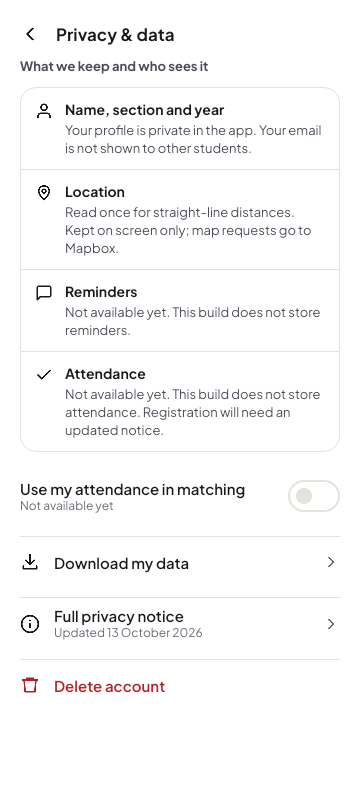
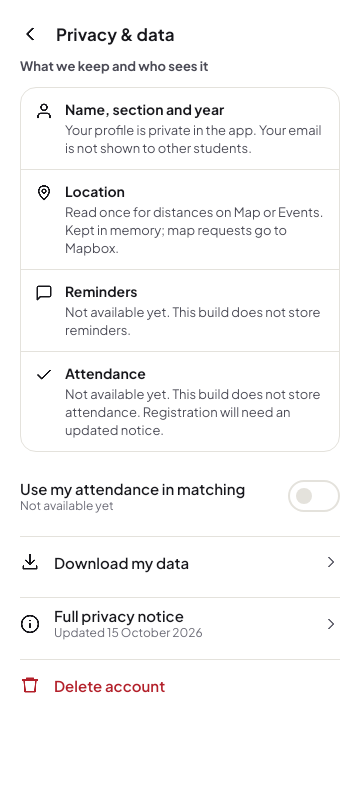
fix(privacy): reconcile current app behavior
Describe the Events distance filter and verification deadlines from main. Verify configured email drafts, missing-client retry and navigation alongside the existing app actions.

Refs #103

Changed region(s): [[0.3667, 0.25, 0.8861, 0.3125], [0.275, 0.2812, 0.3361, 0.3125]]

diff --git a/app/src/test/java/com/polysocial/ui/profile/PrivacyContactRouteTest.kt b/app/src/test/java/com/polysocial/ui/profile/PrivacyContactRouteTest.kt
@@ -1,0 +1,97 @@
+// Contributors: OpenAI Codex (configured privacy contact through the default Android wiring, #103).
+package com.polysocial.ui.profile
+
+import android.content.ActivityNotFoundException
+import android.content.Context
+import android.content.ContextWrapper
+import android.content.Intent
+import android.content.res.Resources
+import androidx.compose.runtime.CompositionLocalProvider
+import androidx.compose.ui.platform.LocalContext
+import androidx.compose.ui.platform.LocalResources
+import androidx.compose.ui.test.assertIsDisplayed
+import androidx.compose.ui.test.junit4.v2.createComposeRule
+import androidx.compose.ui.test.onNodeWithTag
+import androidx.compose.ui.test.onNodeWithText
+import androidx.compose.ui.test.performClick
+import androidx.compose.ui.test.performScrollTo
+import androidx.test.core.app.ApplicationProvider
+import androidx.test.ext.junit.runners.AndroidJUnit4
+import com.polysocial.R
+import com.polysocial.resources.C
+import com.polysocial.ui.theme.PolySocialTheme
+import io.mockk.every
+import io.mockk.spyk
+import org.junit.Assert.assertEquals
+import org.junit.Assert.assertNull
+import org.junit.Assert.assertTrue
+import org.junit.Rule
+import org.junit.Test
+import org.junit.runner.RunWith
+
+/**
+ * Exercises resource configuration, the route factory and Android launcher without opening an app.
+ */
+@RunWith(AndroidJUnit4::class)
+class PrivacyContactRouteTest {
+  @get:Rule val rule = createComposeRule()
+
+  private class EmailContext :
+      ContextWrapper(ApplicationProvider.getApplicationContext<Context>()) {
+    var missingClient = false
+    val drafts = mutableListOf<Intent>()
+
+    override fun getApplicationContext(): Context = this
+
+    override fun startActivity(intent: Intent) {
+      if (missingClient) throw ActivityNotFoundException()
+      drafts += Intent(intent)
+    }
+  }
+
+  private fun showConfiguredNotice(context: EmailContext) {
+    val resources: Resources = spyk(context.resources)
+    every { resources.getString(R.string.privacy_contact_email) } returns "team@example.invalid"
+    rule.setContent {
+      CompositionLocalProvider(LocalContext provides context, LocalResources provides resources) {
+        PolySocialTheme { FullPrivacyNoticeRoute(onBack = {}) }
+      }
+    }
+  }
+
+  @Test
+  fun configuredResourceOpensTheAndroidDraftWithoutAccountDetails() {
+    val context = EmailContext()
+    showConfiguredNotice(context)
+
+    rule.onNodeWithTag(C.Tag.privacy_contact).performScrollTo().performClick()
+
+    val draft = context.drafts.single()
+    assertEquals(Intent.ACTION_SENDTO, draft.action)
+    assertEquals("mailto", draft.data?.scheme)
+    assertEquals("team@example.invalid", draft.data?.schemeSpecificPart)
+    assertEquals(
+        context.getString(R.string.privacy_contact_subject),
+        draft.getStringExtra(Intent.EXTRA_SUBJECT),
+    )
+    assertNull(draft.getStringExtra(Intent.EXTRA_TEXT))
+    rule.onNodeWithTag(C.Tag.privacy_notice_screen).assertIsDisplayed()
+  }
+
+  @Test
+  fun missingAndroidClientKeepsTheNoticeAndAllowsRetry() {
+    val context = EmailContext().apply { missingClient = true }
+    showConfiguredNotice(context)
+    rule.onNodeWithTag(C.Tag.privacy_contact).performScrollTo().performClick()
+    rule.onNodeWithText(context.getString(R.string.privacy_contact_no_app)).assertIsDisplayed()
+    assertTrue(context.drafts.isEmpty())
+
+    rule.onNodeWithText(context.getString(R.string.privacy_dismiss)).performClick()
+    context.missingClient = false
+    rule.onNodeWithTag(C.Tag.privacy_contact).performClick()
+
+    assertEquals(1, context.drafts.size)
+    rule.onNodeWithText(context.getString(R.string.privacy_contact_no_app)).assertDoesNotExist()
+    rule.onNodeWithTag(C.Tag.privacy_notice_screen).assertIsDisplayed()
+  }
+}

diff --git a/app/src/test/java/com/polysocial/ui/profile/PrivacyScreenTest.kt b/app/src/test/java/com/polysocial/ui/profile/PrivacyScreenTest.kt
@@ -26,6 +26,8 @@ import androidx.compose.ui.test.performClick
 import androidx.compose.ui.test.performScrollTo
 import androidx.compose.ui.unit.Density
 import androidx.compose.ui.unit.dp
+import androidx.navigation.NavHostController
+import androidx.navigation.compose.rememberNavController
 import androidx.test.core.app.ApplicationProvider
 import androidx.test.ext.junit.runners.AndroidJUnit4
 import com.polysocial.R
@@ -33,6 +35,7 @@ import com.polysocial.model.privacy.PrivacyContactLauncher
 import com.polysocial.resources.C
 import com.polysocial.ui.navigation.AppShell
 import com.polysocial.ui.navigation.Tab
+import com.polysocial.ui.navigation.TabAction
 import com.polysocial.ui.theme.PolySocialTheme
 import java.io.File
 import org.junit.Rule
@@ -45,15 +48,21 @@ import org.robolectric.annotation.GraphicsMode
 class PrivacyScreenTest {
   @get:Rule val rule = createComposeRule()
   private val context = ApplicationProvider.getApplicationContext<Context>()
+  private lateinit var navController: NavHostController
 
   private fun text(id: Int) = context.getString(id)
 
   private fun openFromProfile() {
     rule.setContent {
       PolySocialTheme {
+        navController = rememberNavController()
         AppShell(
+            navController = navController,
             eventsContent = { Text("Events", Modifier.testTag(Tab.EVENTS.screenTag)) },
-            mapContent = { Text("Map", Modifier.testTag(Tab.MAP.screenTag)) },
+            mapContent = { _, _ -> Text("Map", Modifier.testTag(Tab.MAP.screenTag)) },
+            createEventContent = {
+              Text("Create event", Modifier.testTag(C.Tag.create_event_screen))
+            },
         )
       }
     }
@@ -70,6 +79,24 @@ class PrivacyScreenTest {
     rule.onNodeWithTag(C.Tag.privacy_back).performClick()
     rule.onNodeWithTag(C.Tag.profile_privacy_entry).assertIsDisplayed()
     rule.onNodeWithTag(C.Tag.nav_item_profile).assertIsSelected()
+  }
+
+  @Test
+  fun leavingPrivacyKeepsProfileActionsAndCreateEventNavigationWorking() {
+    openFromProfile()
+    rule.onNodeWithTag(TabAction.EDIT_PROFILE.tag).assertDoesNotExist()
+    rule.onNodeWithTag(C.Tag.privacy_back).performClick()
+    rule.onNodeWithTag(TabAction.EDIT_PROFILE.tag).performClick()
+    rule.onNodeWithTag(TabAction.EDIT_PROFILE.screenTag).assertIsDisplayed()
+    rule.runOnIdle { navController.popBackStack() }
+    rule.onNodeWithTag(C.Tag.profile_privacy_entry).assertIsDisplayed()
+    rule.onNodeWithTag(Tab.EVENTS.navItemTag).performClick()
+    rule.onNodeWithTag(C.Tag.create_event_button).performClick()
+    rule.onNodeWithTag(C.Tag.create_event_screen).assertIsDisplayed()
+    rule.onNodeWithTag(C.Tag.bottom_nav).assertDoesNotExist()
+    rule.runOnIdle { navController.popBackStack() }
+    rule.onNodeWithTag(TabAction.NOTIFICATIONS.tag).assertIsDisplayed()
+    rule.onNodeWithTag(C.Tag.create_event_button).assertIsDisplayed()
   }
 
   @Test

diff --git a/CONTEXT.md b/CONTEXT.md
@@ -172,6 +172,7 @@ Newest first, one line each, with a link. Remove a line once its content lives i
 - 2026-10-15 · Sign-in is email/password and Google only: Microsoft would need EPFL's admin to whitelist the app, and Google, through EPFL's SSO, proves the address just as well. ([#197 review](https://github.com/swent-polysocial/PolySocial/pull/197#pullrequestreview-5539093813))
 - 2026-10-15 · Event writes keep every organizer in `allowedUids`, on create and update, so a co-organizer can always read the private event they manage. ([#102](https://github.com/swent-polysocial/PolySocial/pull/102))
 - 2026-10-15 · CI installs the APKs and waits for the emulator's broadcasts before the device tests, and retries the system image download, after both made runs fail at random. ([#192](https://github.com/swent-polysocial/PolySocial/issues/192))
+- 2026-10-15 · Privacy text covers the Events distance-filter fix and verification resend timestamps now on main; privacy routes preserve the existing app-bar actions and Create Event navigation. ([#173](https://github.com/swent-polysocial/PolySocial/pull/173))
 - 2026-10-14 · CI runs checks, build and unit tests, instrumented tests and the release build in parallel, with the instrumented tests in two shards, then coverage and Sonar from the files the test jobs upload; Gradle caches builds and configuration and runs unit tests in parallel forks. ([#193](https://github.com/swent-polysocial/PolySocial/pull/193))
 
 - 2026-10-14 · Confirm clear-before-sign-out; bound and serialize cleanup despite caller cancellation, and deny database access until success. ([#177 review](https://github.com/swent-polysocial/PolySocial/pull/177#issuecomment-6168926664))
